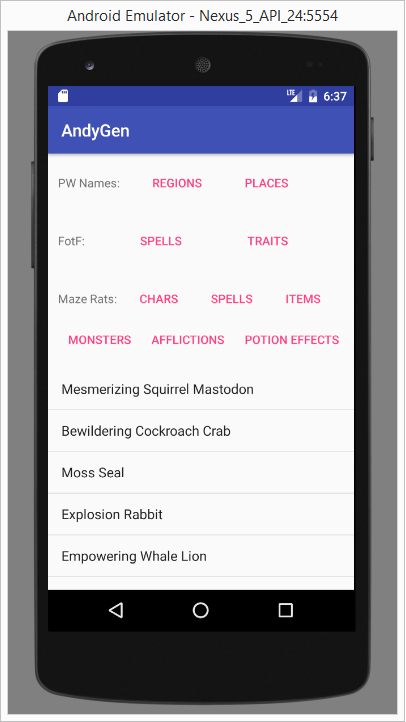
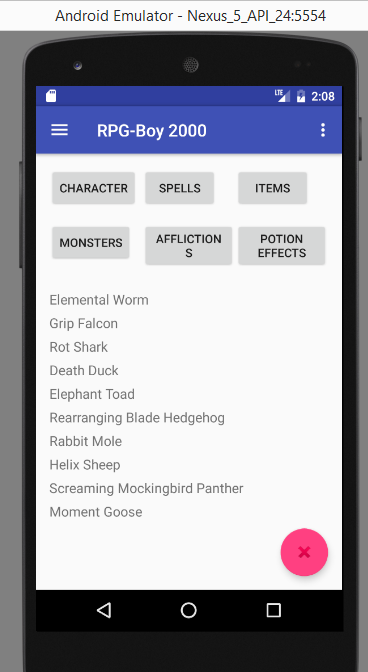
update screenshots

diff --git a/README.md b/README.md
@@ -9,9 +9,13 @@ sources:
 * Freebooters on the Frontier, by Jason Lutes. http://lampblackandbrimstone.blogspot.com/
 * Maze Rats 0.1, by Ben Milton. http://questingblog.com/maze-rats/
 
-## Screenshot
+## Screenshots
 
-![alt text](https://github.com/stevesea/andygen/raw/master/docs/images/mr_monsters.png "Monsters generated for Maze Rats")
+![alt text](https://github.com/stevesea/andygen/raw/master/docs/images/nav_drawer.png "Sliding nav bar, acknowledgements")
+
+![alt text](https://github.com/stevesea/andygen/raw/master/docs/images/mr_chars.png "Maze Rats - characters")
+
+![alt text](https://github.com/stevesea/andygen/raw/master/docs/images/mr_monsters.png "Maze Rats - monsters")
 
 ## Goals
 
@@ -21,6 +25,7 @@ a tool I could get personal use out of when DMing.
 
 ## todo
 
+- do header-button trick in grid layout to put a heading?
 - cleanup directory structure. figure out license, and if want to stay
   on github
 - figure out requirements
